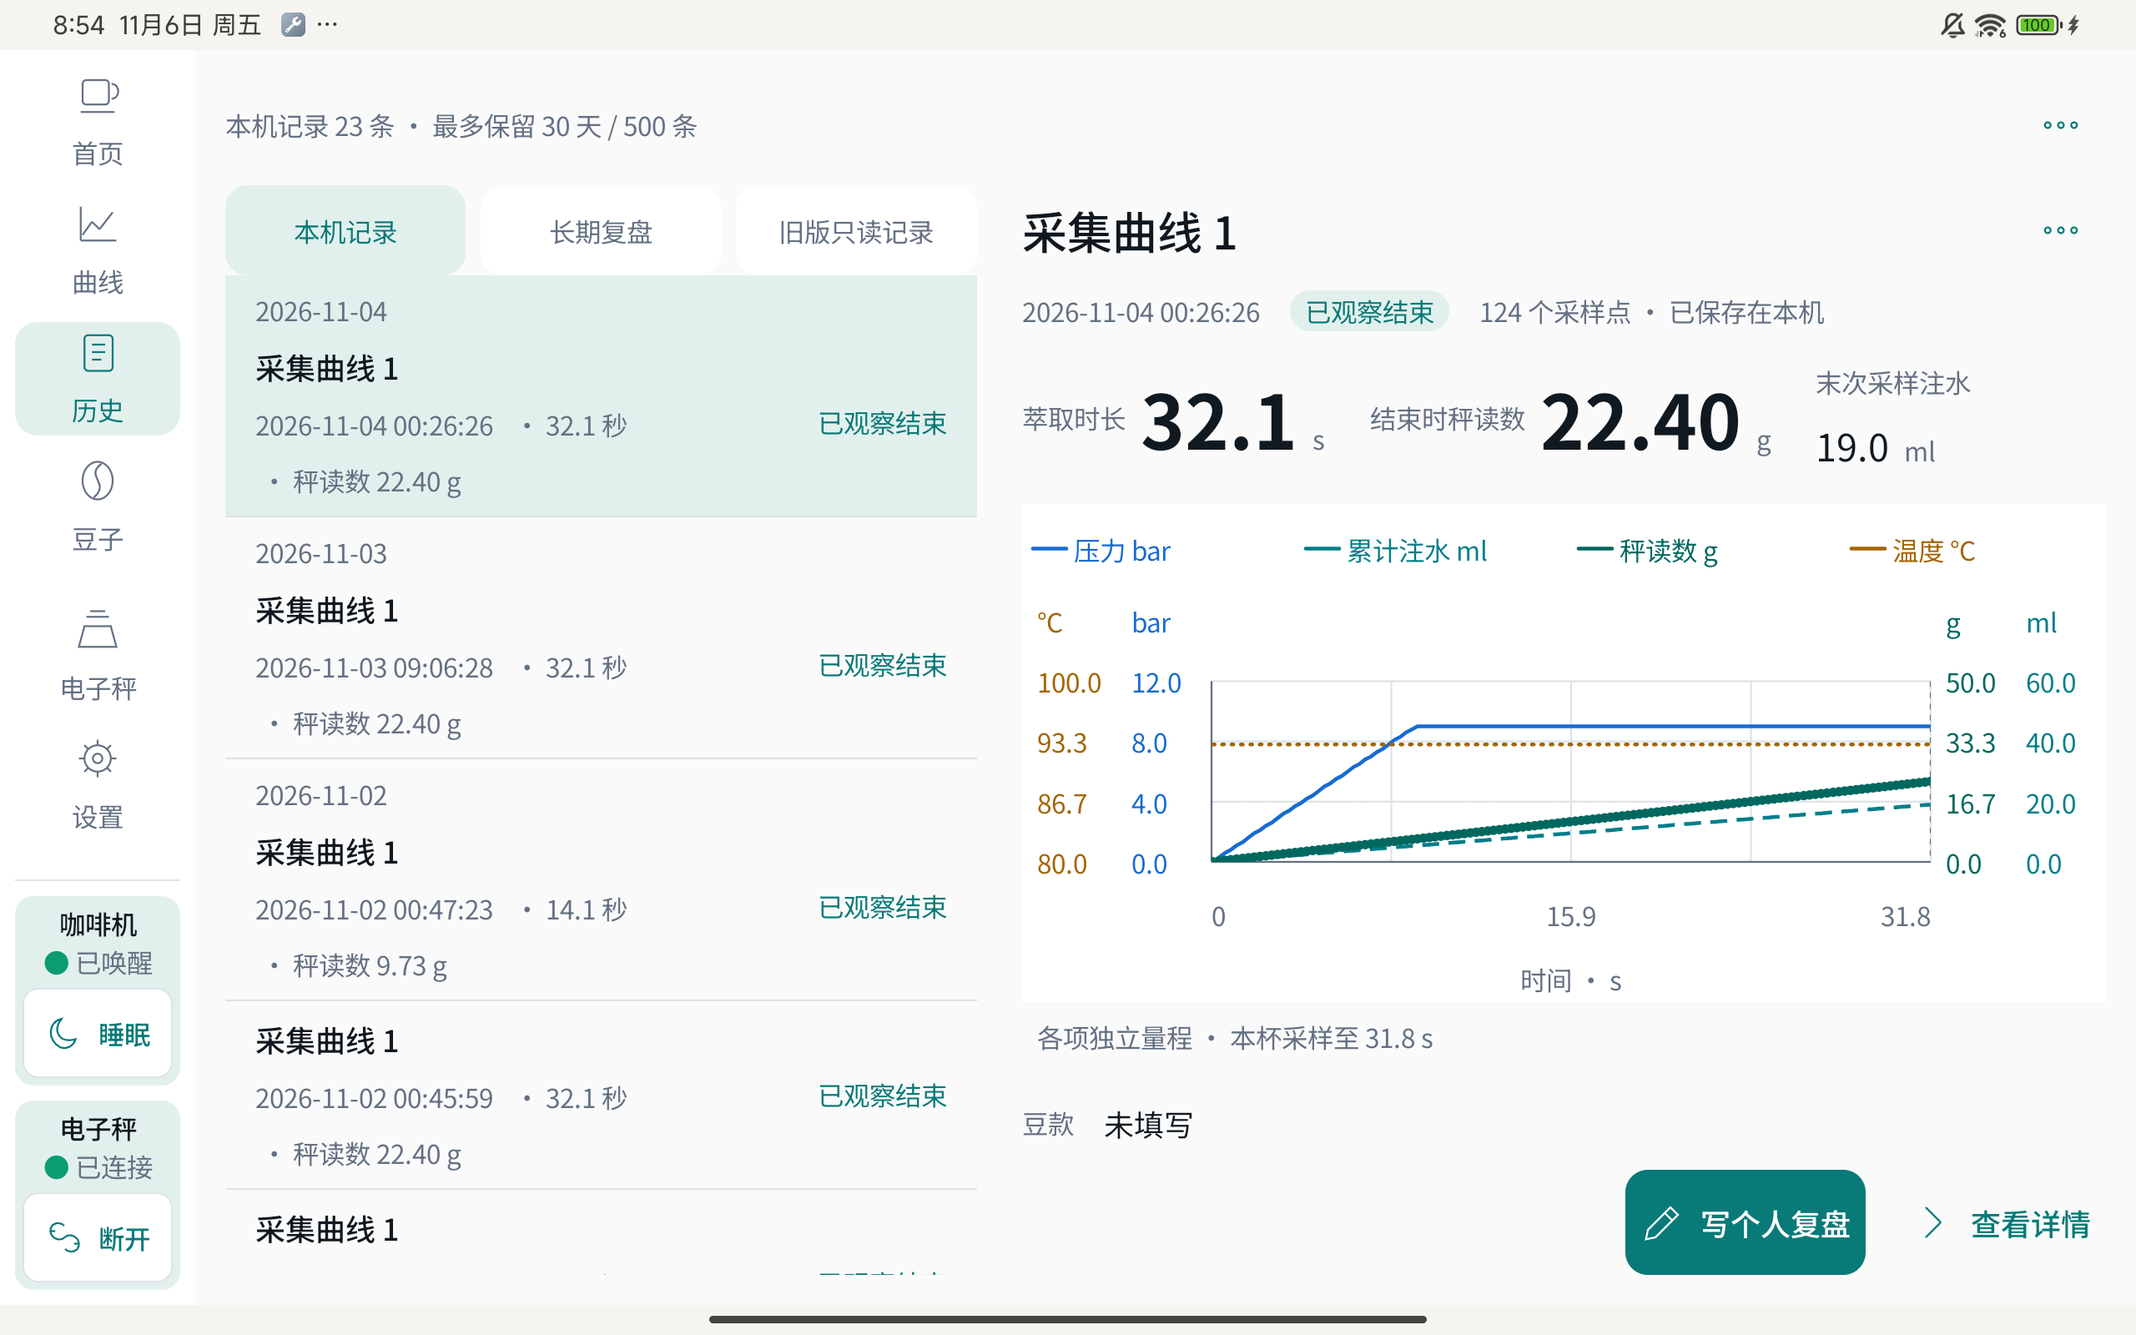
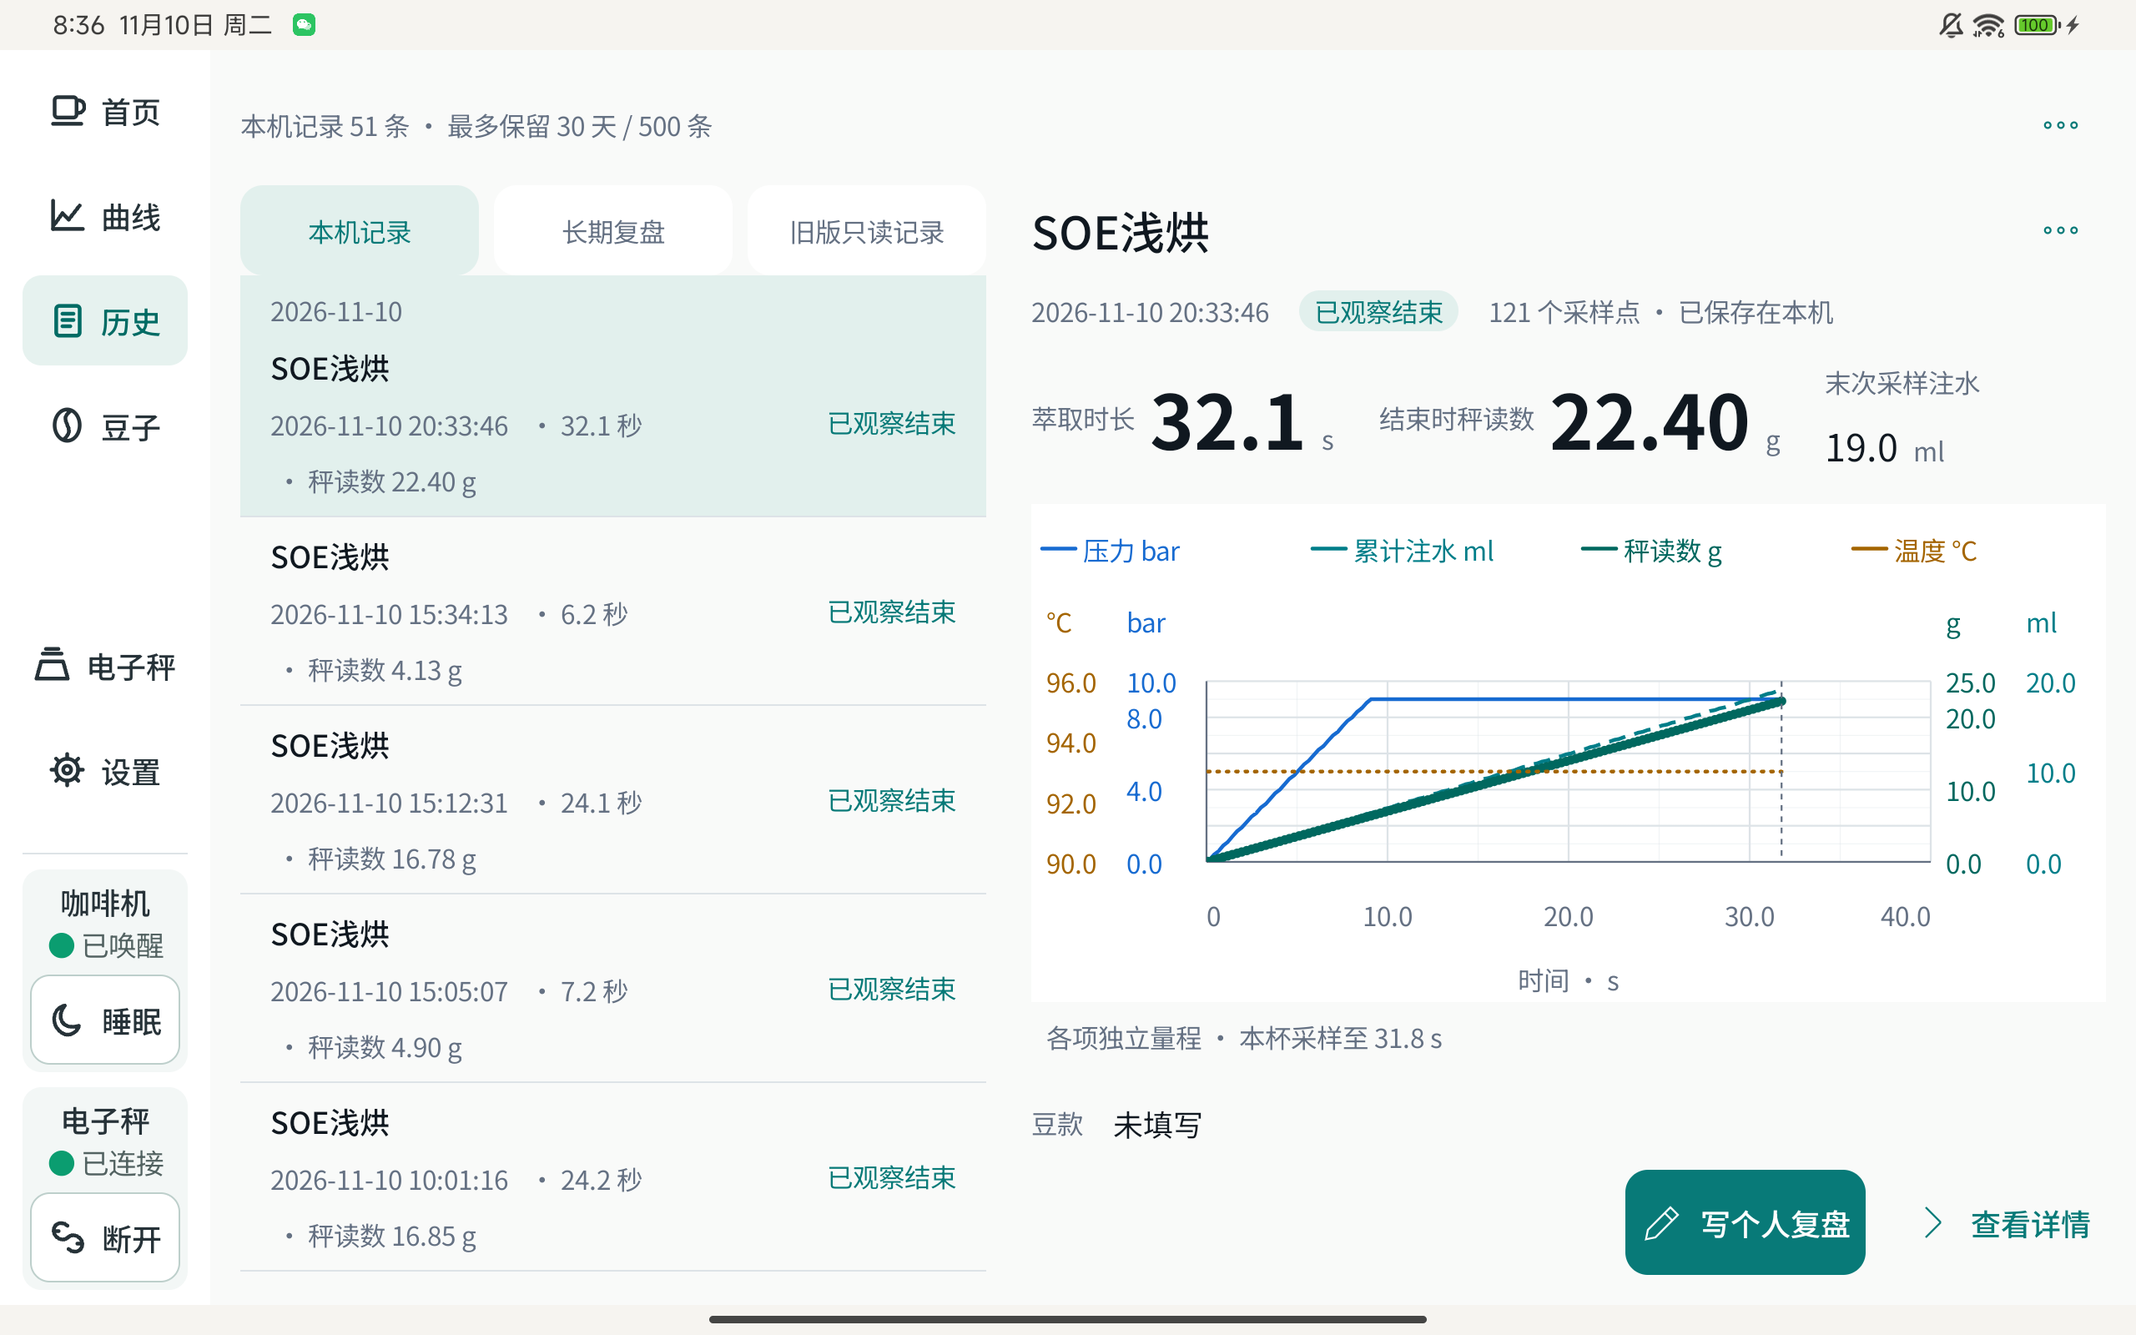
docs(site): refresh screenshots from merged UI

diff --git a/site/index.html b/site/index.html
@@ -12,7 +12,7 @@
   <meta property="og:title" content="OpenHOYI — HOYI 咖啡机的增强控制器">
   <meta property="og:description" content="选曲线、看过程、查记录。用平板连接 HOYI 咖啡机，下载安卓版。">
   <meta property="og:url" content="https://boolean93.github.io/openhoyi/">
-  <meta property="og:image" content="https://boolean93.github.io/openhoyi/assets/screens/home.png">
+  <meta property="og:image" content="https://boolean93.github.io/openhoyi/assets/screens/home.png?v=58bbd96f">
   <meta property="og:image:alt" content="OpenHOYI 首页：咖啡机已连接，显示锅炉温度与压力">
   <meta name="twitter:card" content="summary_large_image">
   <link rel="canonical" href="https://boolean93.github.io/openhoyi/">
@@ -49,8 +49,8 @@
         </div>
         <p class="hero-aside">独立开发 · 非 HOYI 官方应用</p>
         <figure class="hero-figure">
-          <a class="shot" href="./assets/screens/originals/home.png" data-view-image data-image-title="App 首页 · 平板演示" data-focus-x="1914" data-focus-y="610">
-            <img src="./assets/screens/home.png" width="2560" height="1504" alt="OpenHOYI 首页：左侧是功能导航，中间是咖啡机，右侧显示冲煮温度 93.00°C、压力 0.0 bar，蒸汽温度 120.00°C、压力 0.8 bar，底部是五个快捷曲线和开始萃取按钮" fetchpriority="high">
+          <a class="shot" href="./assets/screens/originals/home.png?v=58bbd96f" data-view-image data-image-title="App 首页 · 平板演示" data-focus-x="1780" data-focus-y="490">
+            <img src="./assets/screens/home.png?v=58bbd96f" width="2560" height="1504" alt="OpenHOYI 首页：左侧功能导航，咖啡机与冲泡、蒸汽双温度圆环，下方是最近使用曲线和五个带压力、流量缩略图的快捷槽位" fetchpriority="high">
           </a>
         </figure>
       </div>
@@ -72,11 +72,11 @@
         <article class="feature">
           <div class="feature-copy">
             <h3>每一秒，都看得见</h3>
-            <p>开始萃取后，压力、温度、秤读数与累计注水会实时绘成曲线。想停的时候随时手动停止，不必等机器自己判断。</p>
+            <p>开始萃取后，压力、温度、流速与累计注水会实时绘成曲线。想停的时候随时手动停止，不必等机器自己判断。</p>
           </div>
           <figure class="feature-figure">
-            <a class="shot" href="./assets/screens/originals/extraction.png" data-view-image data-image-title="萃取过程 · 平板演示" data-focus-x="1240" data-focus-y="750">
-              <img src="./assets/screens/extraction.png" width="2560" height="1504" alt="萃取中的界面：左侧导航与实时读数，压力曲线升到 9 bar 后保持平稳，秤读数 17.3 克、累计注水 14.7 毫升，底部是立即停止萃取按钮" loading="lazy">
+            <a class="shot" href="./assets/screens/originals/extraction.png?v=58bbd96f" data-view-image data-image-title="萃取过程 · 平板演示" data-focus-x="1450" data-focus-y="790">
+              <img src="./assets/screens/extraction.png?v=58bbd96f" width="2560" height="1504" alt="模拟萃取中的界面：压力、累计注水、流速和温度四条曲线，各曲线末端显示模拟采样的数值与单位，底部有对应读数和立即停止萃取按钮" loading="lazy">
             </a>
           </figure>
         </article>
@@ -87,8 +87,8 @@
             <p>最近 30 天的萃取都保存在本机，最多 500 条，带着采样曲线。可以写一段复盘，也可以导出历史备份；旧版记录导入后只读保留。</p>
           </div>
           <figure class="feature-figure">
-            <a class="shot" href="./assets/screens/originals/history.png" data-view-image data-image-title="历史记录 · 平板演示" data-focus-x="1874" data-focus-y="745">
-              <img src="./assets/screens/history.png" width="2560" height="1504" alt="历史记录：左侧是记录列表，右侧显示 2026-11-04 的一次萃取，时长 32.1 秒、结束时秤读数 22.40 克，下方是压力、注水与秤读数的采样曲线" loading="lazy">
+            <a class="shot" href="./assets/screens/originals/history.png?v=58bbd96f" data-view-image data-image-title="历史记录 · 平板演示" data-focus-x="1870" data-focus-y="955">
+              <img src="./assets/screens/history.png?v=58bbd96f" width="2560" height="1504" alt="历史记录：左侧为本机记录列表，右侧是本次模拟杯的时长、结束时秤读数及压力、累计注水、秤读数和温度采样曲线" loading="lazy">
             </a>
           </figure>
         </article>
@@ -246,8 +246,8 @@
           <details class="disclosure" id="image-source">
             <summary>页面截图是怎么来的？</summary>
             <div class="disclosure-body">
-              <p>本页是 M2105K81AC 平板实际截图，采自开发中的演示包 0.1.0（53），并非手机端布局，也不是网站实时数据；截图使用模拟数据，不保证与下载版本一致。</p>
-              <p>原图保留未修改，局部图是原图的连续矩形裁切，没有重绘界面。截图对应的源码提交映射未核验，模拟数据不代表硬件验收。</p>
+              <p>本页是 M2105K81AC 平板实际截图，采自合入后的演示包 0.2.0-preview.76（76），展示横屏布局，不是网站实时数据；截图使用模拟数据，不保证与下载版本一致。</p>
+              <p>原图保留未修改，展示图仅连续裁去系统栏，没有重绘界面。源码提交映射已核验为 58bbd96f，已安装包与该提交的本地构建哈希一致；这不代表可重现构建、所有合入后检查通过或硬件验收。</p>
               <p><a class="link" href="./assets/screens/provenance.json">原始截图来源记录</a></p>
             </div>
           </details>
@@ -299,10 +299,10 @@
     </div>
     <div class="viewer-actions">
       <button type="button" data-viewer-scale aria-pressed="false" hidden>放大查看</button>
-      <a class="link" href="./assets/screens/originals/extraction.png" data-viewer-original target="_blank" rel="noopener">打开原图 ↗</a>
+      <a class="link" href="./assets/screens/originals/extraction.png?v=58bbd96f" data-viewer-original target="_blank" rel="noopener">打开原图 ↗</a>
     </div>
     <div class="viewer-scroll">
-      <img src="./assets/screens/originals/extraction.png" width="2560" height="1600" alt="完整平板演示截图，使用模拟数据" loading="lazy" data-viewer-image>
+      <img src="./assets/screens/originals/extraction.png?v=58bbd96f" width="2560" height="1600" alt="完整平板演示截图，使用模拟数据" loading="lazy" data-viewer-image>
     </div>
     <p class="viewer-note">平板模拟演示，非手机截图。放大后可拖动查看，也可打开原图用浏览器缩放。</p>
   </dialog>

diff --git a/scripts/test_product_pages.py b/scripts/test_product_pages.py
@@ -12,6 +12,8 @@ ROOT = Path(__file__).resolve().parents[1]
 SITE = ROOT / "site"
 RELEASES = "https://github.com/boolean93/openhoyi/releases"
 PAGES = "https://boolean93.github.io/openhoyi/"
+APP_SOURCE_SHA = "58bbd96ff12f6f72d47130ac6f7bade4e788eef4"
+SCREEN_REVISION = APP_SOURCE_SHA[:8]
 
 
 class Page(HTMLParser):
@@ -112,7 +114,7 @@ class ProductPagesTest(unittest.TestCase):
         # One unframed screenshot per screen: no art-directed crops that hide UI on phones.
         for name in ("home.png", "extraction.png", "history.png"):
             with self.subTest(image=name):
-                self.assertIn(f'<img src="./assets/screens/{name}" width="2560" height="1504"', self.html)
+                self.assertIn(f'<img src="./assets/screens/{name}?v={SCREEN_REVISION}" width="2560" height="1504"', self.html)
         self.assertNotIn("<picture>", self.html)
         self.assertNotIn('-detail.png', self.html)
         self.assertTrue(self.page.metas("name", "viewport"))
@@ -123,10 +125,11 @@ class ProductPagesTest(unittest.TestCase):
         self.assertEqual(len(shots), 3)
         screens = {s["original"].split("/")[-1]: s for s in self.provenance["screens"]}
         for href, x, y in shots:
-            name = href.rsplit("/", 1)[-1]
+            name = urlsplit(href).path.rsplit("/", 1)[-1]
             with self.subTest(image=name):
                 screen = screens[name]
-                self.assertIn(f"./assets/screens/originals/{name}", self.page.links)
+                self.assertIn(f"./assets/screens/originals/{name}?v={SCREEN_REVISION}", self.page.links)
+                self.assertEqual(urlsplit(href).query, f"v={SCREEN_REVISION}")
                 self.assertTrue(0 <= x <= screen["width"] and 0 <= y <= screen["height"])
 
     def test_download_entry_points_at_releases(self):
@@ -187,18 +190,28 @@ class ProductPagesTest(unittest.TestCase):
         screens = SITE / "assets/screens"
         self.assertEqual(self.provenance["schema"], 3)
         self.assertEqual(self.provenance["kind"], "actual-tablet-screenshots")
-        self.assertIsNone(self.provenance["sourceSha"])
-        self.assertIs(self.provenance["sourceCommitVerified"], False)
+        self.assertEqual(self.provenance["sourceSha"], APP_SOURCE_SHA)
+        self.assertIs(self.provenance["sourceCommitVerified"], True)
+        verification = self.provenance["sourceVerification"]
+        self.assertEqual(verification["gitTreeSha"], "35afc54399a8a4edcd69466de73318d20a432d52")
+        self.assertIs(verification["installedApkMatchesBuild"], True)
+        self.assertIn("not a reproducible-build claim", verification["scope"])
+        self.assertEqual(self.provenance["installedApp"]["versionCode"], 76)
+        self.assertEqual(self.provenance["installedApp"]["versionName"], "0.2.0-preview.76")
+        self.assertEqual(self.provenance["installedApp"]["apkSha256"],
[1 lines of base64/hex data omitted]
+        self.assertEqual(self.provenance["installedApp"]["signerSha256"],
[1 lines of base64/hex data omitted]
         self.assertEqual(self.provenance["captureMethod"], "adb exec-out screencap -p")
         self.assertEqual(self.provenance["device"]["model"], "M2105K81AC")
         self.assertEqual(self.provenance["installedApp"]["package"], "io.openhoyi.mobile.mock")
-        for text in ("平板实际截图", "源码提交映射未核验", "0.1.0（53）", "并非手机端布局",
+        for text in ("平板实际截图", "源码提交映射已核验", "0.2.0-preview.76（76）", "展示横屏布局",
                      "使用模拟数据", "不保证与下载版本一致"):
             self.assertIn(text, self.html)
         self.assertEqual({s["name"] for s in self.provenance["screens"]}, {"extraction", "home", "history"})
         for screen in self.provenance["screens"]:
             self.assertEqual(screen["displayCropPx"], [0, 60, 2560, 1564])
-            self.assertRegex(screen["capturedAt"], r"^2026-11-06T")
+            self.assertRegex(screen["capturedAt"], r"^2026-11-10T")
             for file_key, hash_key, size in (
                 ("original", "sha256", (screen["width"], screen["height"])),
                 ("display", "displaySha256", (2560, 1504)),
@@ -211,9 +224,10 @@ class ProductPagesTest(unittest.TestCase):
                 self.assertEqual(hashlib.sha256(data).hexdigest(), screen[hash_key])
         for tag, attrs in self.page.tags:
             if tag == "img" and "/screens/" in attrs.get("src", ""):
-                data = (SITE / attrs["src"]).read_bytes()
+                data = (SITE / urlsplit(attrs["src"]).path).read_bytes()
                 self.assertEqual((int(attrs["width"]), int(attrs["height"])),
                                  struct.unpack(">II", data[16:24]))
+                self.assertEqual(urlsplit(attrs["src"]).query, f"v={SCREEN_REVISION}")
 
     def test_no_unused_page_assets(self):
         screens = SITE / "assets/screens"

diff --git a/docs/plans/pages-ui-refresh.md b/docs/plans/pages-ui-refresh.md
@@ -1,0 +1,24 @@
+# 刷新产品站真实界面截图
+
+- 需求与范围：用户授权合并App改版后更新并发布Pages；保留原三张横屏首页/实时/历史版式与资源路径，仅更新真实截图、来源/alt和对应证据校验，不重设计站点。
+- 来源分支/基线：develop，App合入提交58bbd96ff12f6f72d47130ac6f7bade4e788eef4（M）。
+- 工作分支：chore/pages-ui-refresh；独立工作树openhoyi-pages-refresh，不修改既有候选或PR工作树。
+- PR目标：develop。Sol实现及真机Mock取证，Astra只读复核；root负责通过scripts/create-pr、合并与Pages部署核验，本实现者不自行创建PR/合并。
+- 步骤：M构建原签名同版本Debug+Mock，安装前核空闲/双包版本及签名/四明确非凭据业务文件，成对保数据覆盖；仅Mock取三张新横屏原图；保留原图且仅裁系统栏作展示图，记录原图/展示hash、APK及M映射；同步网站及测试。
+- 验证：PNG尺寸/SHA/裁切像素一致、静态站既有测试、差异检查；浏览器桌面和窄屏原版式/灯箱。记录App源码M和后续站点部署SHA分别对应的含义，未部署前不写成功。
+- 协议与设备：不改App/协议代码、不启动真实Debug业务、不发实体咖啡机命令、不清数据、不模拟器。按用户本地包规则沿用已装76，用源码/APKhash区分；安装数据保留与后续主动Mock样例记录分开，截图新增杯保留不删。
+- 发布：仅授权静态Pages，非APK Release/发版；root合并站点PR触发Product Pages，核验实际head_sha、Pages部署及线上资产。
+- 回退：通过站点revert PR还原旧图与文案重新部署，不改设备记录或共享历史。
+- 未完成：待实际M双包构建/取证、站点检查、独立复核、PR及部署。
+
+## 实际完成与验证
+
[1 lines of base64/hex data omitted]
+- 安装阶段Debug/Mock原包名同76成对覆盖，firstInstallTime及四明确非凭据业务文件hash分别保持；之后为截图新增一杯Mock，实际00:07运行图具有四线、四跟随值及单位。该杯自然结束，最终记录32.1秒/22.40g；晚到的停止坐标打开新确认框，已取消，未开始第二杯，不宣称主动stop验证通过。记录保留，未清理。错误的`live-idle`（实际Home）、`history`（实际确认框）未入站；历史正确来源为`history-actual`。
+- 三原图均来自M构建的实际M2105K81AC横屏2560×1600；展示图仅裁`[0,60,2560,1564]`系统栏，2560×1504，Pillow解码逐像素等同原图连续裁切。原图与展示图SHA、UTC采集时间、M、Git树和APK身份已记录`site/assets/screens/provenance.json`；原图保留用于灯箱，全部截图URL带`v=58bbd96f`避旧缓存。
+- 保留网站原版式、三个资源路径及其它内容；仅更新新图/真实alt/源码来源，正文实时枚举纠正为压力、温度、流速、累计注水。没有新增手机展示栏目、改动下载去向或发布APK Release。
+- `python3 -m unittest discover -s scripts -p test_product_pages.py -v`：14项通过；来源断言由旧v53/未核验更为M/76/已核安装hash，保留PNG尺寸/SHA、链接、无闲置资产、可访问性、下载边界与部署范围检查。`git diff --check`通过。对应日志和安装/像素证据在任务工作区`evidence/pages-refresh/`，不随站点公开本地设备文件。
+- 独立Astra逐张亲看三张原图，核原图SHA/裁切像素/M树/双包签名及安装数据保护，确认来源scope合理；其指出的正文“秤读数”与实时“流速”不一致已修。最终diff复核结论由协调者汇总。
+- root实际IAB浏览：1280×720首页灯箱、放大开关、Escape返回正常；390×844功能段新实时图/历史图完整且无横向溢出，原图灯箱关闭、放大及原图链接可达，文案明确非手机截图；已reset viewport。本次不以此声称手机App硬件验收或M所有合入后CI通过。
+- 设备UI会话已关闭并交回root，最后为Mock Home；本轮没有修改WM、density、font或rotation，没有启动真实Debug业务或实体咖啡机命令。后续独立短横屏修复不由本任务改App或占设备。
+- 发布仍待root通过现有`create-pr`入口、必需检查、合并站点PR及核验Product Pages实际部署head_sha。App来源为M；后续站点merge/deploy SHA另记，未部署前不宣称线上已更新。
